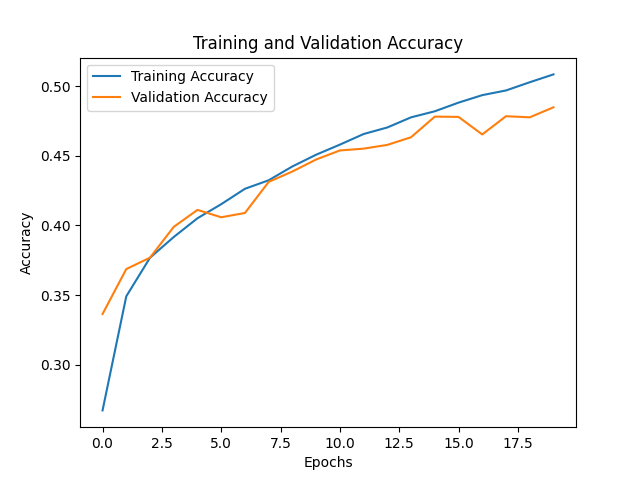
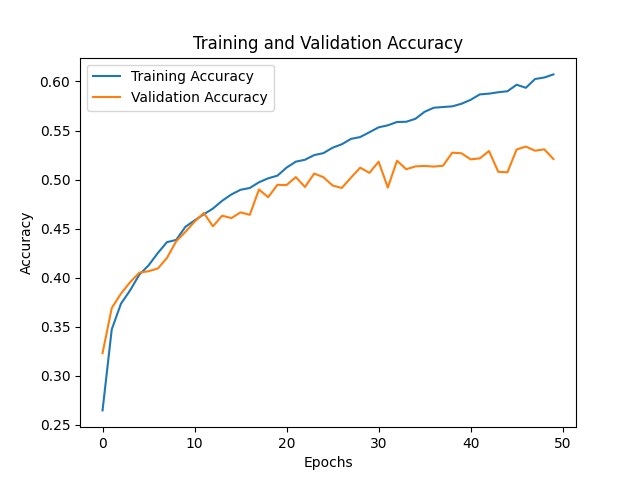
All results added

diff --git a/Autoencoder/RBF_gradientdescent.py b/Autoencoder/RBF_gradientdescent.py
@@ -3,8 +3,10 @@ import tensorflow as tf
 from tensorflow.keras import layers, models
 from sklearn.cluster import KMeans
 from sklearn.preprocessing import OneHotEncoder
-from sklearn.metrics import accuracy_score, classification_report
+from sklearn.metrics import accuracy_score, classification_report, confusion_matrix
 from sklearn.decomposition import PCA
+import seaborn as sns
+import matplotlib.pyplot as plt
 from load_data_cifer import load_cifar10_data
 
 
@@ -68,7 +70,6 @@ def train_rbfnn_model(X_train, Y_train, X_test, Y_test, is_trainable, gamma, num
     return model, history
 
 
-# Load and preprocess CIFAR-10 dataset
 data_dir = 'cifar-10-batches-py'
 (X_train, y_train), (X_test, y_test) = load_cifar10_data(data_dir)
 
@@ -86,12 +87,11 @@ encoder = OneHotEncoder(sparse_output=False)
 y_train_oh = encoder.fit_transform(y_train.reshape(-1, 1))
 y_test_oh = encoder.transform(y_test.reshape(-1, 1))
 
-# Train RBFNN
 num_centers = 500
 gamma = 1.0
 num_classes = 10
 input_dim = 300
-epochs = 20
+epochs = 50
 is_trainable = True
 random_centers = False
 
@@ -102,16 +102,16 @@ model, history = train_rbfnn_model(
     input_shape_=input_dim, epochs=epochs, random_centers=random_centers
 )
 
-# Evaluate RBFNN
 y_pred = np.argmax(model.predict(X_test_pca), axis=1)
 accuracy = accuracy_score(y_test, y_pred)
 report = classification_report(y_test, y_pred)
-print(f"\nAccuracy: {accuracy * 100:.2f}%")
-print("Classification Report:")
-print(report)
 
-# Plot Training and Validation Curves
-import matplotlib.pyplot as plt
+results_text = f"\nAccuracy: {accuracy * 100:.2f}%\nClassification Report:\n{report}\n"
+
+print(results_text)
+
+with open('rbfnn_results.txt', 'w') as file:
+    file.write(results_text)
 
 plt.figure()
 plt.plot(history.history['loss'], label='Training Loss')
@@ -130,3 +130,11 @@ plt.xlabel('Epochs')
 plt.ylabel('Accuracy')
 plt.legend()
 plt.savefig('training_validation_accuracy_rbfnn.png')
+
+cm = confusion_matrix(y_test, y_pred)
+plt.figure(figsize=(10, 8))
+sns.heatmap(cm, annot=True, fmt="d", cmap="Blues", xticklabels=encoder.categories_[0], yticklabels=encoder.categories_[0])
+plt.title('Confusion Matrix')
+plt.xlabel('Predicted Labels')
+plt.ylabel('True Labels')
+plt.savefig('confusion_matrix_rbfnn.png')
